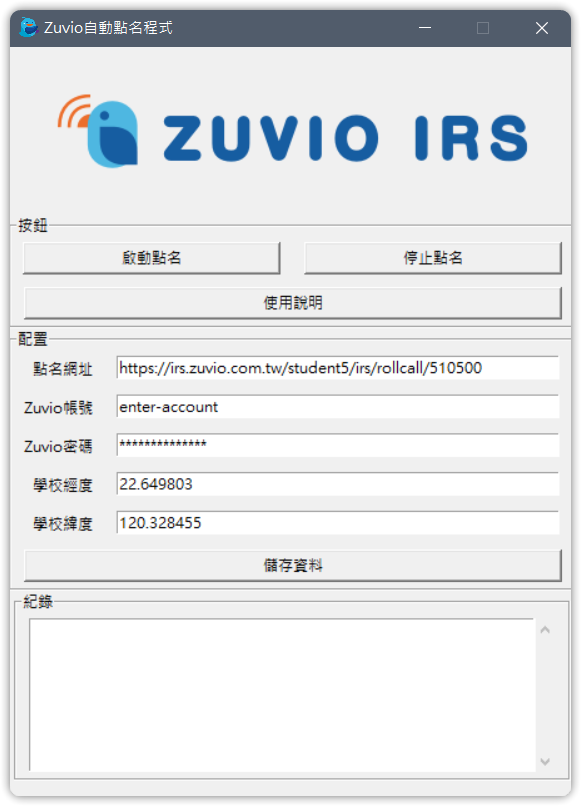
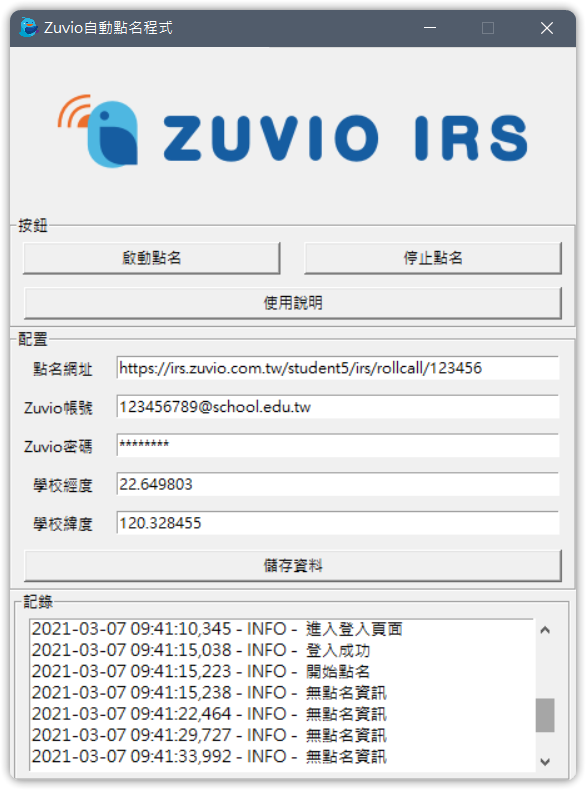
UPDATE code...

diff --git a/zuvio.py b/zuvio.py
@@ -265,7 +265,7 @@ def user_interface():
     Button(config_frame, text="儲存資料", command=save_config, width=60) \
         .grid(column=0, row=5, columnspan=2, padx=10, pady=5, sticky=N)
 
-    logging_frame = LabelFrame(windows, text="紀錄")
+    logging_frame = LabelFrame(windows, text="記錄")
     logging_frame.grid(row=3, column=0)
 
     st = scrolledtext.ScrolledText(logging_frame, width=50, height=7, state='disabled', font=('微軟正黑體', 10))
